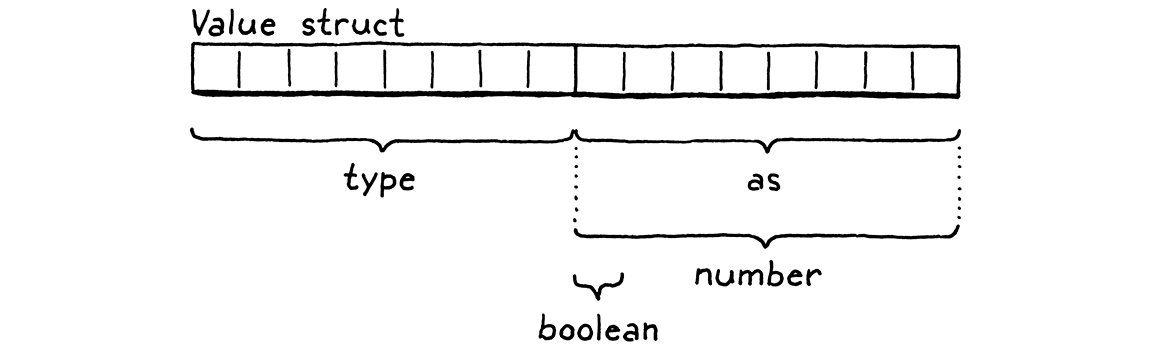
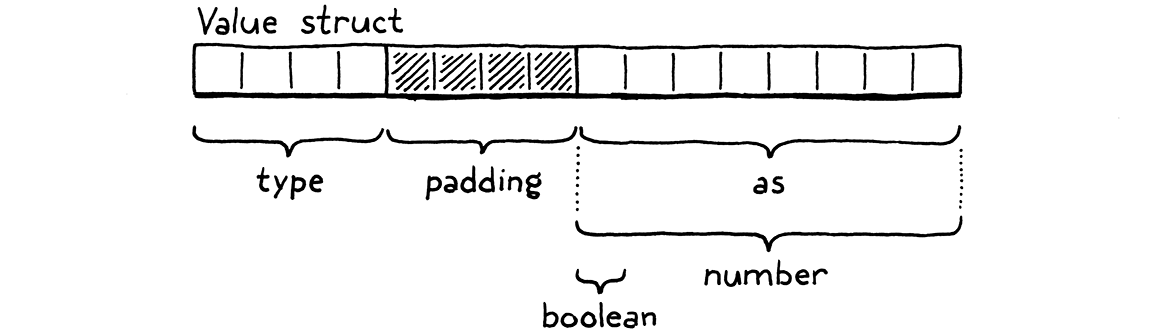
Redo Value illustration and description to take padding into account.
Fix #281.

diff --git a/site/types-of-values.html b/site/types-of-values.html
@@ -230,13 +230,13 @@ the layout looks like this:</p>
 because it reads nicely, almost like a cast, when you pull the value out.</p>
 </aside>
 <p><img src="image/types-of-values/value.png" alt="The full value struct, with the type and as fields next to each other in memory." /></p>
-<p>The type tag comes first followed by the union. You&rsquo;re probably wondering why we
-need a full eight bytes for the type tag when it only needs to store a number
-between zero and three. We <em>could</em> pack the enum into a single byte, or even a
-bit field. But most architectures prefer values be aligned to their size. Since
-the union field contains an eight-byte double, the compiler will <span
-name="pad">pad</span> the type field out to eight bytes to keep that double on
-the nearest eight-byte boundary.</p>
+<p>The four-byte type tag comes first, then the union. Most architectures prefer
+values be aligned to their size. Since the union field contains an eight-byte
+double, the compiler adds four bytes of <span name="pad">padding</span> after
+the type field to keep that double on the nearest eight-byte boundary. That
+means we&rsquo;re effectively spending eight bytes on the type tag, which only needs
+to represent a number between zero and three. We could stuff the enum in a
+smaller size, but all that would do is increase the padding.</p>
 <aside name="pad">
 <p>We could move the tag field <em>after</em> the union, but that doesn&rsquo;t help much
 either. Whenever we create an array of values<span class="em">&mdash;</span>which is where most of our

diff --git a/book/types-of-values.md b/book/types-of-values.md
@@ -126,13 +126,13 @@ because it reads nicely, almost like a cast, when you pull the value out.
 
 <img src="image/types-of-values/value.png" alt="The full value struct, with the type and as fields next to each other in memory." />
 
-The type tag comes first followed by the union. You're probably wondering why we
-need a full eight bytes for the type tag when it only needs to store a number
-between zero and three. We *could* pack the enum into a single byte, or even a
-bit field. But most architectures prefer values be aligned to their size. Since
-the union field contains an eight-byte double, the compiler will <span
-name="pad">pad</span> the type field out to eight bytes to keep that double on
-the nearest eight-byte boundary.
+The four-byte type tag comes first, then the union. Most architectures prefer
+values be aligned to their size. Since the union field contains an eight-byte
+double, the compiler adds four bytes of <span name="pad">padding</span> after
+the type field to keep that double on the nearest eight-byte boundary. That
+means we're effectively spending eight bytes on the type tag, which only needs
+to represent a number between zero and three. We could stuff the enum in a
+smaller size, but all that would do is increase the padding.
 
 <aside name="pad">
 
